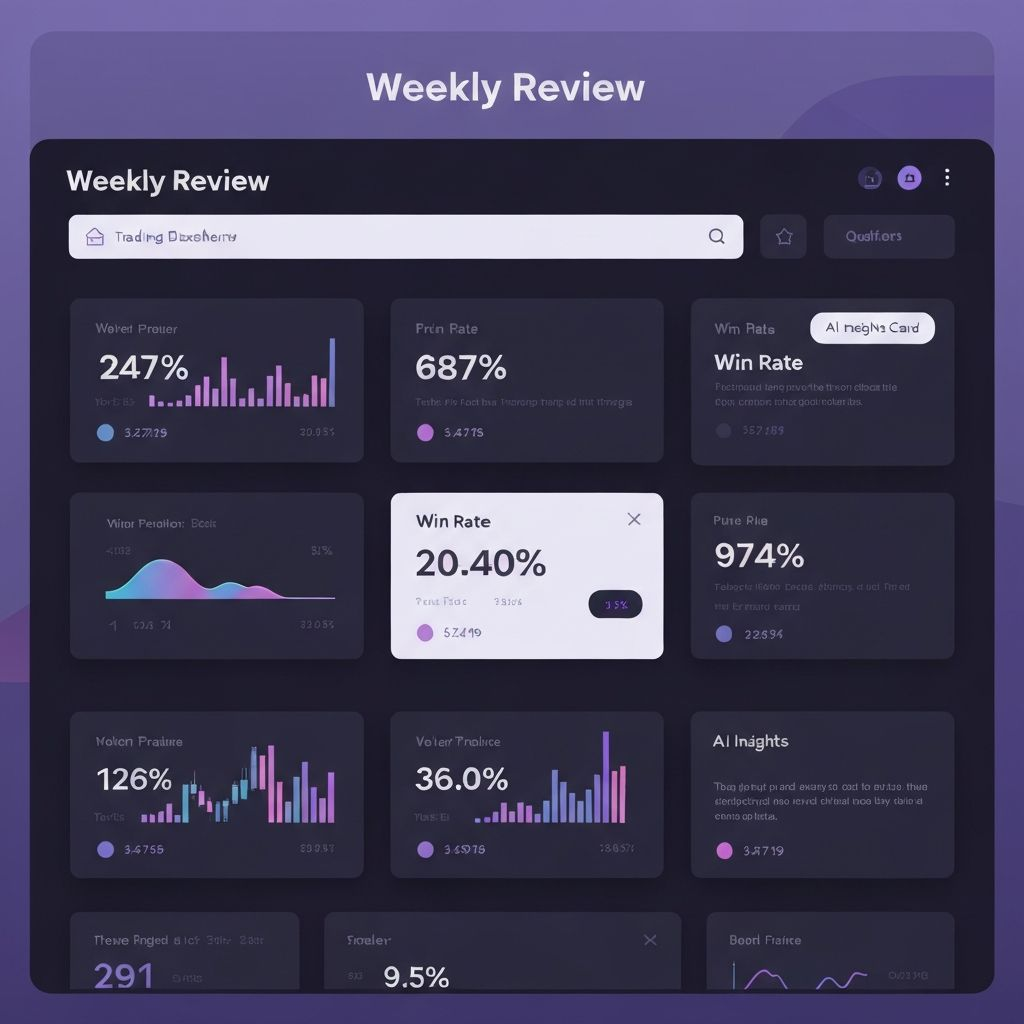
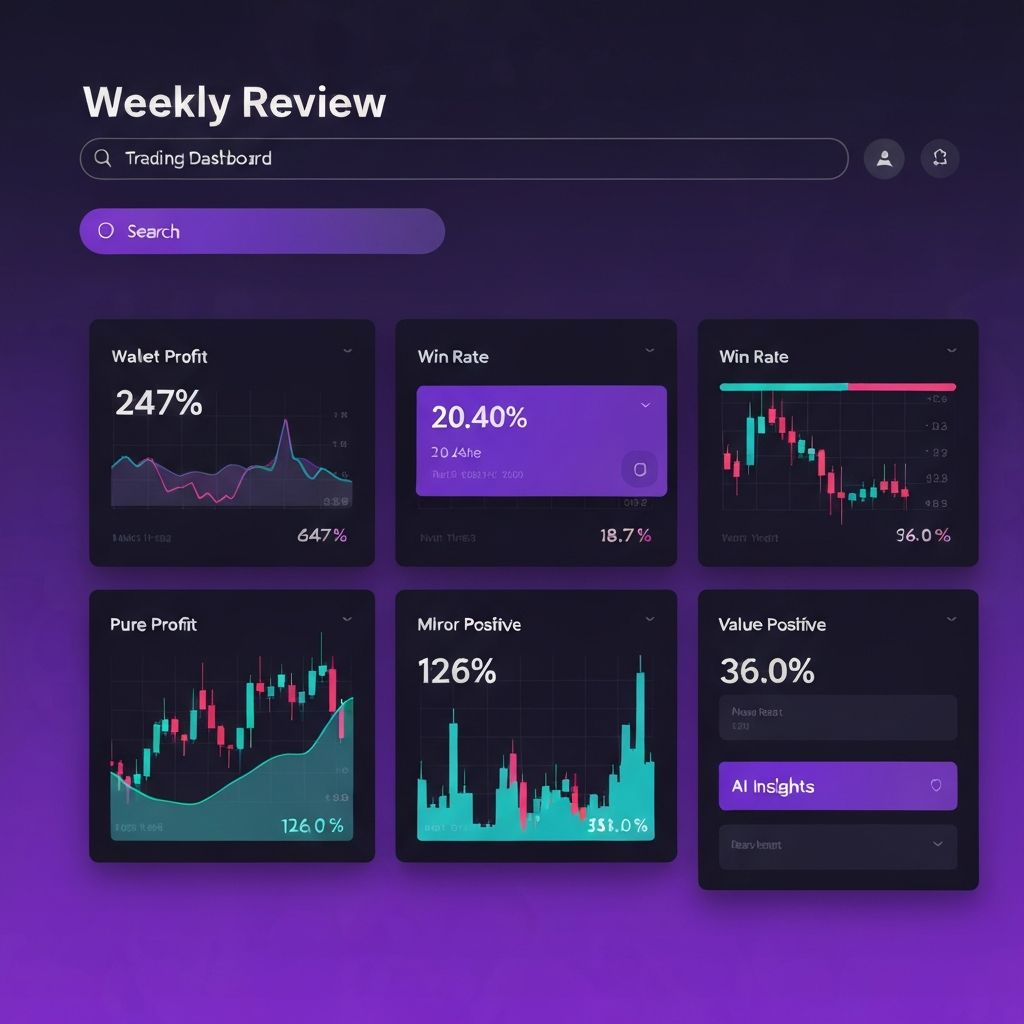
translate all UI texts and images to English

diff --git a/components/feature-previews/daily-tracker-preview.tsx b/components/feature-previews/daily-tracker-preview.tsx
@@ -18,7 +18,7 @@ export function DailyTrackerPreview() {
         <div className="flex items-center justify-between border-b border-slate-600/50 pb-3">
           <div className="flex items-center gap-2">
             <Sun className="w-5 h-5 text-yellow-400" />
-            <h3 className="text-lg font-bold text-white">Ráno Check-in</h3>
+            <h3 className="text-lg font-bold text-white">Morning Check-in</h3>
           </div>
         </div>
 
@@ -28,7 +28,7 @@ export function DailyTrackerPreview() {
           <div className="bg-slate-700/40 rounded p-3 border border-slate-600/30">
             <div className="flex items-center gap-1.5 mb-2">
               <Moon className="w-4 h-4 text-blue-400 flex-shrink-0" />
-              <span className="text-xs text-slate-300 font-semibold truncate">Spánek</span>
+              <span className="text-xs text-slate-300 font-semibold truncate">Sleep</span>
               <span className="text-xs font-bold text-blue-300 ml-auto">{mockData.sleepHours}h</span>
             </div>
             <Progress value={mockData.sleepHours * 12.5} className="h-1" />
@@ -38,7 +38,7 @@ export function DailyTrackerPreview() {
           <div className="bg-slate-700/40 rounded p-3 border border-slate-600/30">
             <div className="flex items-center gap-1.5 mb-2">
               <Zap className="w-4 h-4 text-yellow-400 flex-shrink-0" />
-              <span className="text-xs text-slate-300 font-semibold truncate">Energie</span>
+              <span className="text-xs text-slate-300 font-semibold truncate">Energy</span>
               <span className="text-xs font-bold text-yellow-300 ml-auto">{mockData.energyLevel}%</span>
             </div>
             <Progress value={mockData.energyLevel} className="h-1" />
@@ -48,7 +48,7 @@ export function DailyTrackerPreview() {
           <div className="bg-slate-700/40 rounded p-3 border border-slate-600/30">
             <div className="flex items-center gap-1.5 mb-2">
               <Heart className="w-4 h-4 text-red-400 flex-shrink-0" />
-              <span className="text-xs text-slate-300 font-semibold truncate">Stres</span>
+              <span className="text-xs text-slate-300 font-semibold truncate">Stress</span>
               <span className="text-xs font-bold text-red-300 ml-auto">{mockData.stressLevel}%</span>
             </div>
             <Progress value={mockData.stressLevel} className="h-1" />
@@ -68,7 +68,7 @@ export function DailyTrackerPreview() {
           <div className="bg-slate-700/40 rounded p-3 border border-slate-600/30">
             <div className="flex items-center gap-1.5 mb-2">
               <Activity className="w-4 h-4 text-green-400 flex-shrink-0" />
-              <span className="text-xs text-slate-300 font-semibold truncate">Fyzika</span>
+              <span className="text-xs text-slate-300 font-semibold truncate">Physical</span>
               <span className="text-xs font-bold text-green-300 ml-auto">{mockData.physicalHealth}%</span>
             </div>
             <Progress value={mockData.physicalHealth} className="h-1" />
@@ -78,7 +78,7 @@ export function DailyTrackerPreview() {
           <div className="bg-slate-700/40 rounded p-3 border border-slate-600/30">
             <div className="flex items-center gap-1.5 mb-2">
               <Heart className="w-4 h-4 text-pink-400 flex-shrink-0" />
-              <span className="text-xs text-slate-300 font-semibold truncate">Emoce</span>
+              <span className="text-xs text-slate-300 font-semibold truncate">Emotions</span>
               <span className="text-xs font-bold text-pink-300 ml-auto">{mockData.emotionalState}%</span>
             </div>
             <Progress value={mockData.emotionalState} className="h-1" />

diff --git a/components/feature-previews/fail-log-preview.tsx b/components/feature-previews/fail-log-preview.tsx
@@ -5,7 +5,7 @@ export function FailLogPreview() {
     <div className="w-full h-full bg-gradient-to-br from-slate-900 via-slate-800 to-slate-900 p-4 flex flex-col overflow-hidden">
       {/* Header */}
       <h3 className="text-white font-bold text-base mb-3 pb-2 border-b border-slate-600/50">
-        Fail Log - Lekcí
+        Fail Log - Lessons
       </h3>
 
       {/* Trades */}
@@ -17,12 +17,12 @@ export function FailLogPreview() {
               <TrendingDown className="w-4 h-4 text-red-400 flex-shrink-0 mt-0.5" />
               <div className="min-w-0">
                 <p className="text-white font-semibold text-sm">EURUSD Short</p>
-                <p className="text-xs text-slate-400">-$150 • Revenge Trade</p>
+                <p className="text-xs text-slate-400">-$150 • Revenge Trading</p>
               </div>
             </div>
-            <span className="text-xs bg-red-600/40 text-red-200 px-2 py-1 rounded-sm flex-shrink-0 ml-2">Psychika</span>
+            <span className="text-xs bg-red-600/40 text-red-200 px-2 py-1 rounded-sm flex-shrink-0 ml-2">Psychology</span>
           </div>
-          <p className="text-xs text-slate-200 leading-tight">Vstup bez signálu po ztrátě.</p>
+          <p className="text-xs text-slate-200 leading-tight">Entry without signal after loss.</p>
         </div>
 
         {/* Failed trade 2 - Yellow */}
@@ -32,12 +32,12 @@ export function FailLogPreview() {
               <AlertCircle className="w-4 h-4 text-yellow-400 flex-shrink-0 mt-0.5" />
               <div className="min-w-0">
                 <p className="text-white font-semibold text-sm">GBPUSD Long</p>
-                <p className="text-xs text-slate-400">-$85 • Bez Konfirmace</p>
+                <p className="text-xs text-slate-400">-$85 • No Confirmation</p>
               </div>
             </div>
-            <span className="text-xs bg-yellow-600/40 text-yellow-200 px-2 py-1 rounded-sm flex-shrink-0 ml-2">Setup</span>
+            <span className="text-xs bg-yellow-600/40 text-yellow-200 px-2 py-1 rounded-sm flex-shrink-0 ml-2">Strategy</span>
           </div>
-          <p className="text-xs text-slate-200 leading-tight">Chyběla druhá konfirmace.</p>
+          <p className="text-xs text-slate-200 leading-tight">Missing second confirmation.</p>
         </div>
 
         {/* Winning trade - Green */}
@@ -47,12 +47,12 @@ export function FailLogPreview() {
               <CheckCircle2 className="w-4 h-4 text-green-400 flex-shrink-0 mt-0.5" />
               <div className="min-w-0">
                 <p className="text-white font-semibold text-sm">NZDUSD Long</p>
-                <p className="text-xs text-slate-400">+$237 • Právo Udělán</p>
+                <p className="text-xs text-slate-400">+$237 • Done Right</p>
               </div>
             </div>
             <span className="text-xs bg-green-600/40 text-green-200 px-2 py-1 rounded-sm flex-shrink-0 ml-2">✓ Win</span>
           </div>
-          <p className="text-xs text-slate-200 leading-tight">Všechny pravidla dodržena.</p>
+          <p className="text-xs text-slate-200 leading-tight">All rules followed.</p>
         </div>
       </div>
 
@@ -61,7 +61,7 @@ export function FailLogPreview() {
         <div className="flex items-start gap-2">
           <Lightbulb className="w-4 h-4 text-blue-300 flex-shrink-0 mt-0.5" />
           <p className="text-xs text-blue-200 leading-tight">
-            <span className="font-semibold">Key Lesson:</span> Čekej 30min po ztrátě. Dej si 2 konfirmace na setup.
+            <span className="font-semibold">Key Lesson:</span> Wait 30 min after loss. Get 2 confirmations per setup.
           </p>
         </div>
       </div>

diff --git a/components/feature-previews/weekly-review-preview.tsx b/components/feature-previews/weekly-review-preview.tsx
@@ -6,7 +6,7 @@ export function WeeklyReviewPreview() {
     <div className="w-full h-full bg-gradient-to-br from-slate-900 via-slate-800 to-slate-900 p-4 flex flex-col overflow-hidden">
       {/* Header */}
       <h3 className="text-white font-bold text-base mb-3 pb-2 border-b border-slate-600/50">
-        Týdenní Přehled
+        Weekly Review
       </h3>
 
       {/* Stats 2x2 Grid */}
@@ -48,7 +48,7 @@ export function WeeklyReviewPreview() {
             <span className="text-xs text-slate-300 font-semibold">Trades</span>
           </div>
           <p className="text-2xl font-black text-orange-400">3</p>
-          <p className="text-xs text-slate-400 mt-1">kvalitní</p>
+          <p className="text-xs text-slate-400 mt-1">quality</p>
         </div>
       </div>
 
@@ -61,11 +61,11 @@ export function WeeklyReviewPreview() {
         
         <div className="bg-slate-700/30 rounded-lg p-3 border border-purple-400/30 flex-1 overflow-y-auto">
           <p className="text-xs text-slate-200 leading-relaxed">
-            <span className="text-purple-300 font-semibold block mb-1">✓ Výborná disciplína!</span>
-            Žádný revenge trading z 3 tradů. Spánek 7.5h je optimální pro trading.
+            <span className="text-purple-300 font-semibold block mb-1">✓ Excellent discipline!</span>
+            No revenge trading from 3 trades. 7.5h sleep is optimal for trading.
           </p>
           <p className="text-xs text-slate-300 leading-relaxed mt-2">
-            Pokračuj v ranních ochodech - tam máš best edge. Věnuj pozornost stress managementu.
+            Keep morning trades - that's your best edge. Focus on stress management.
           </p>
         </div>
       </div>
